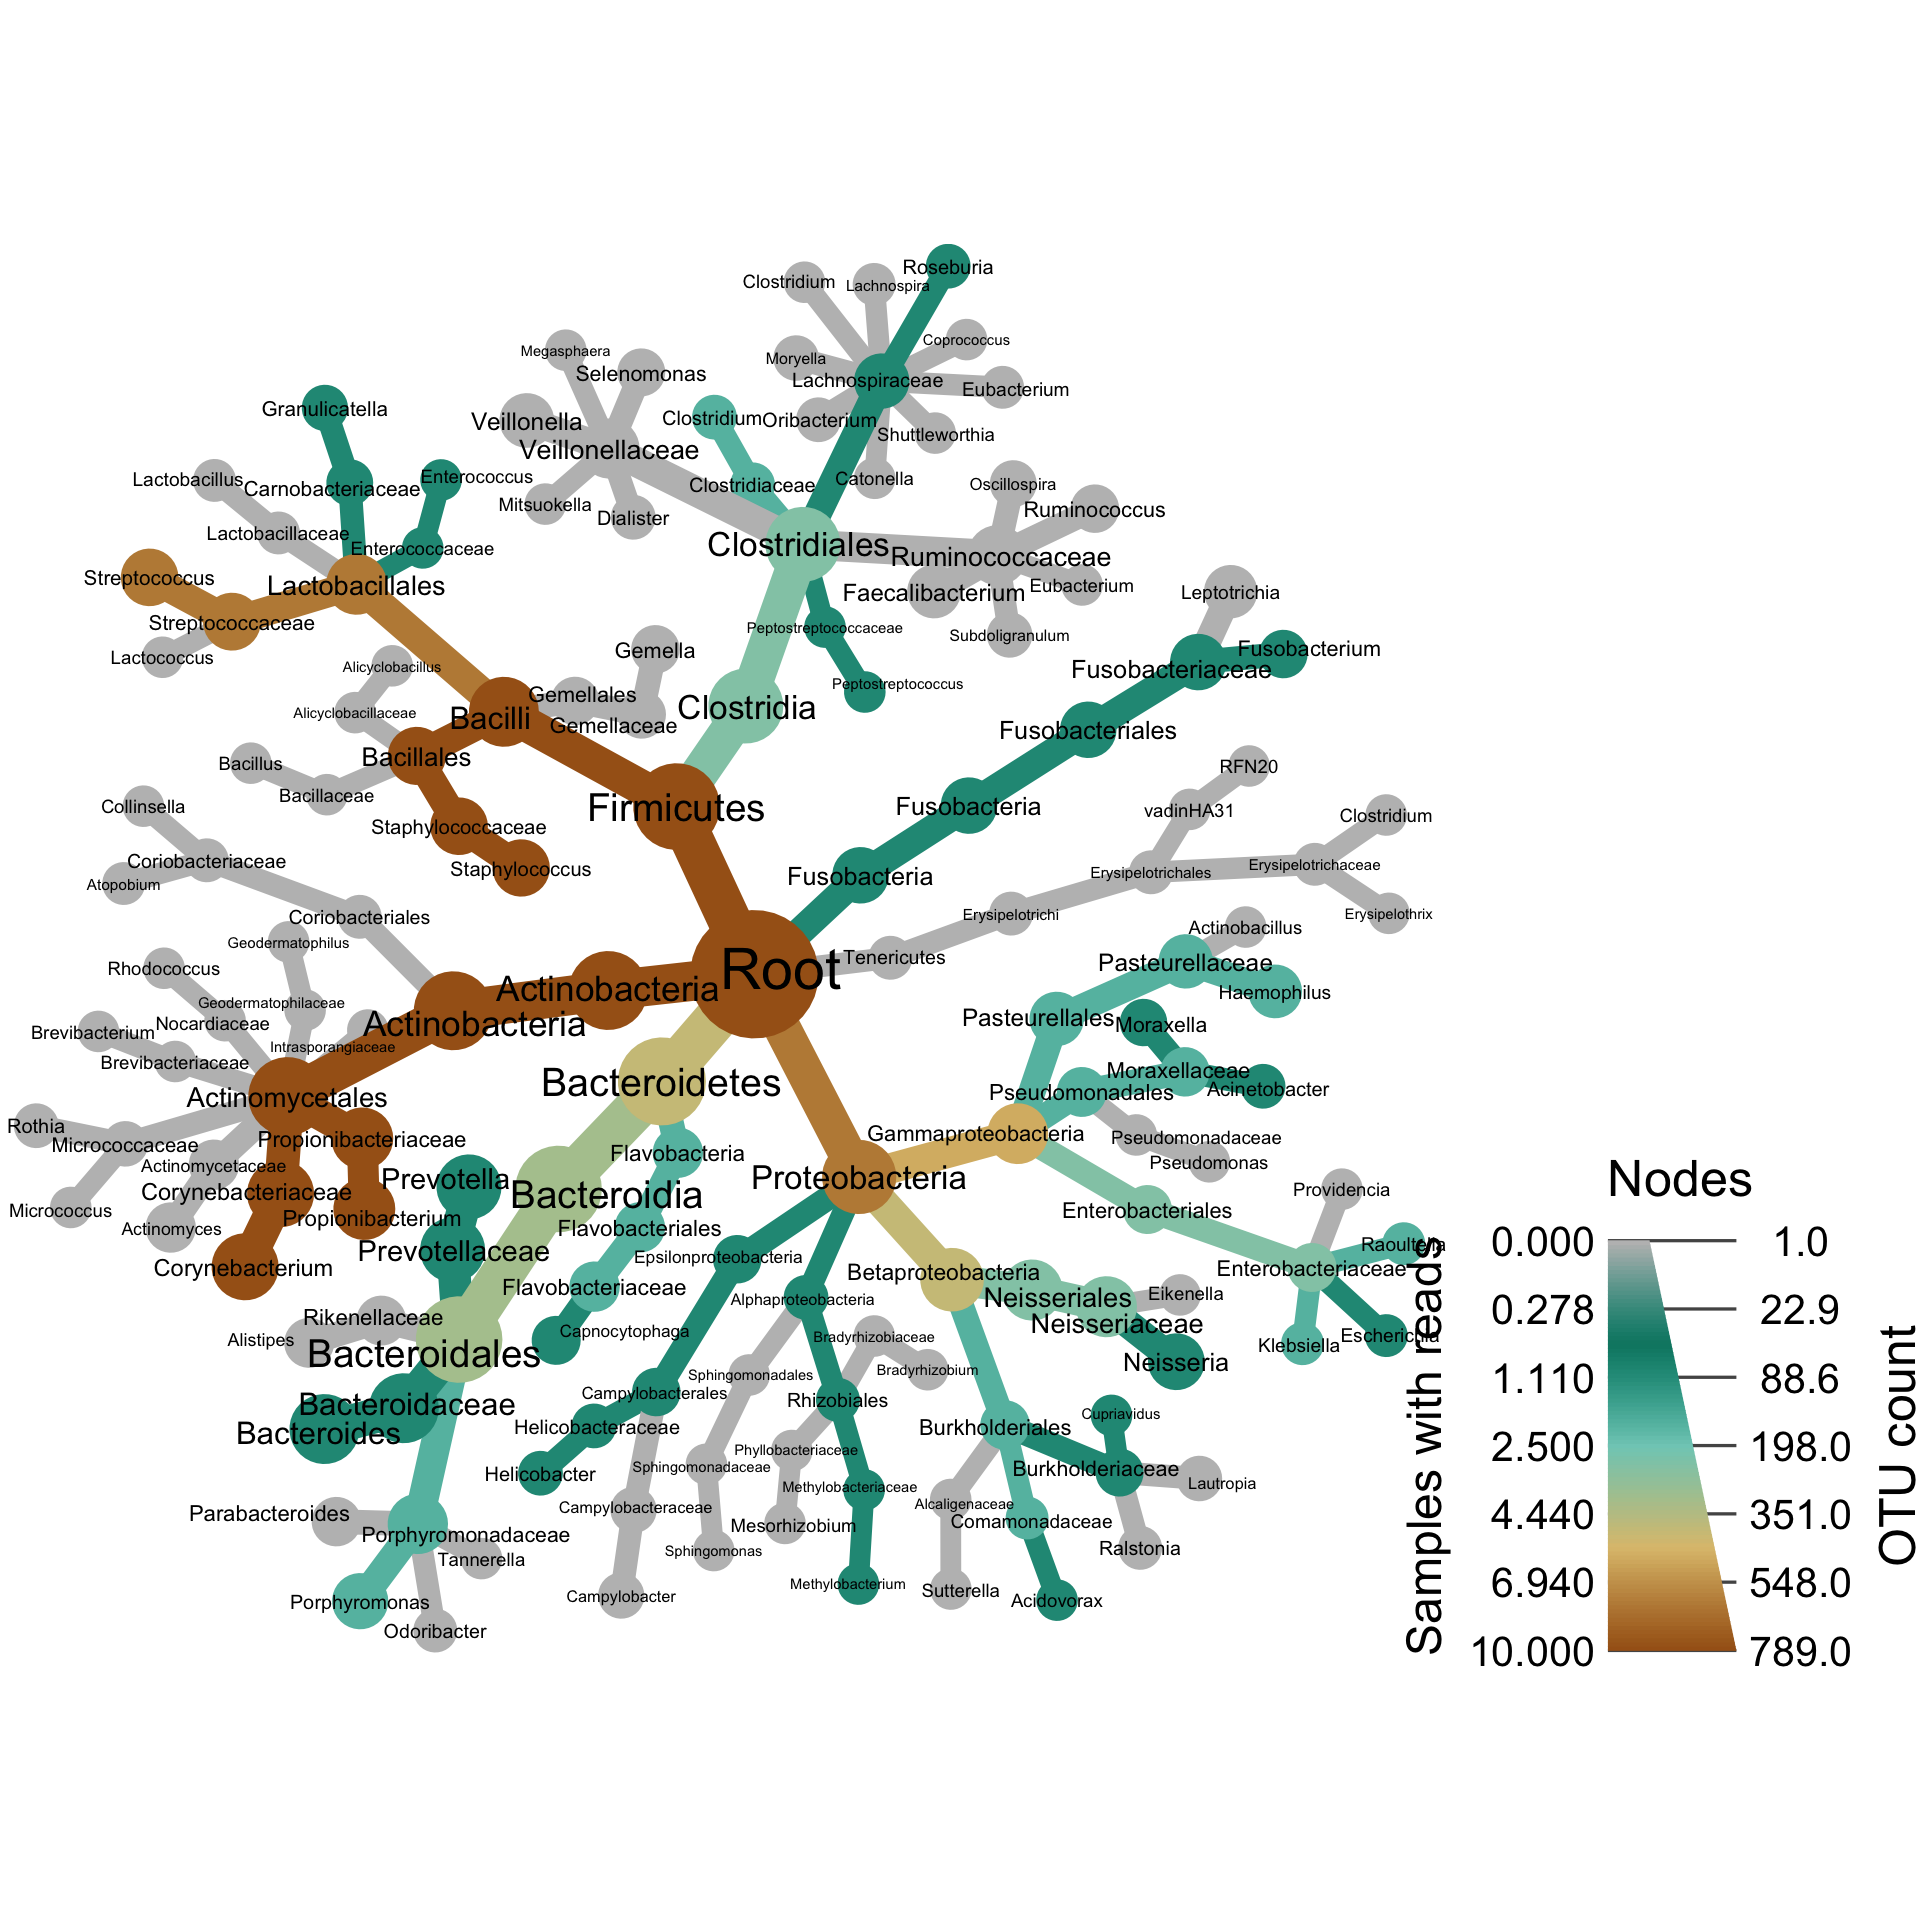
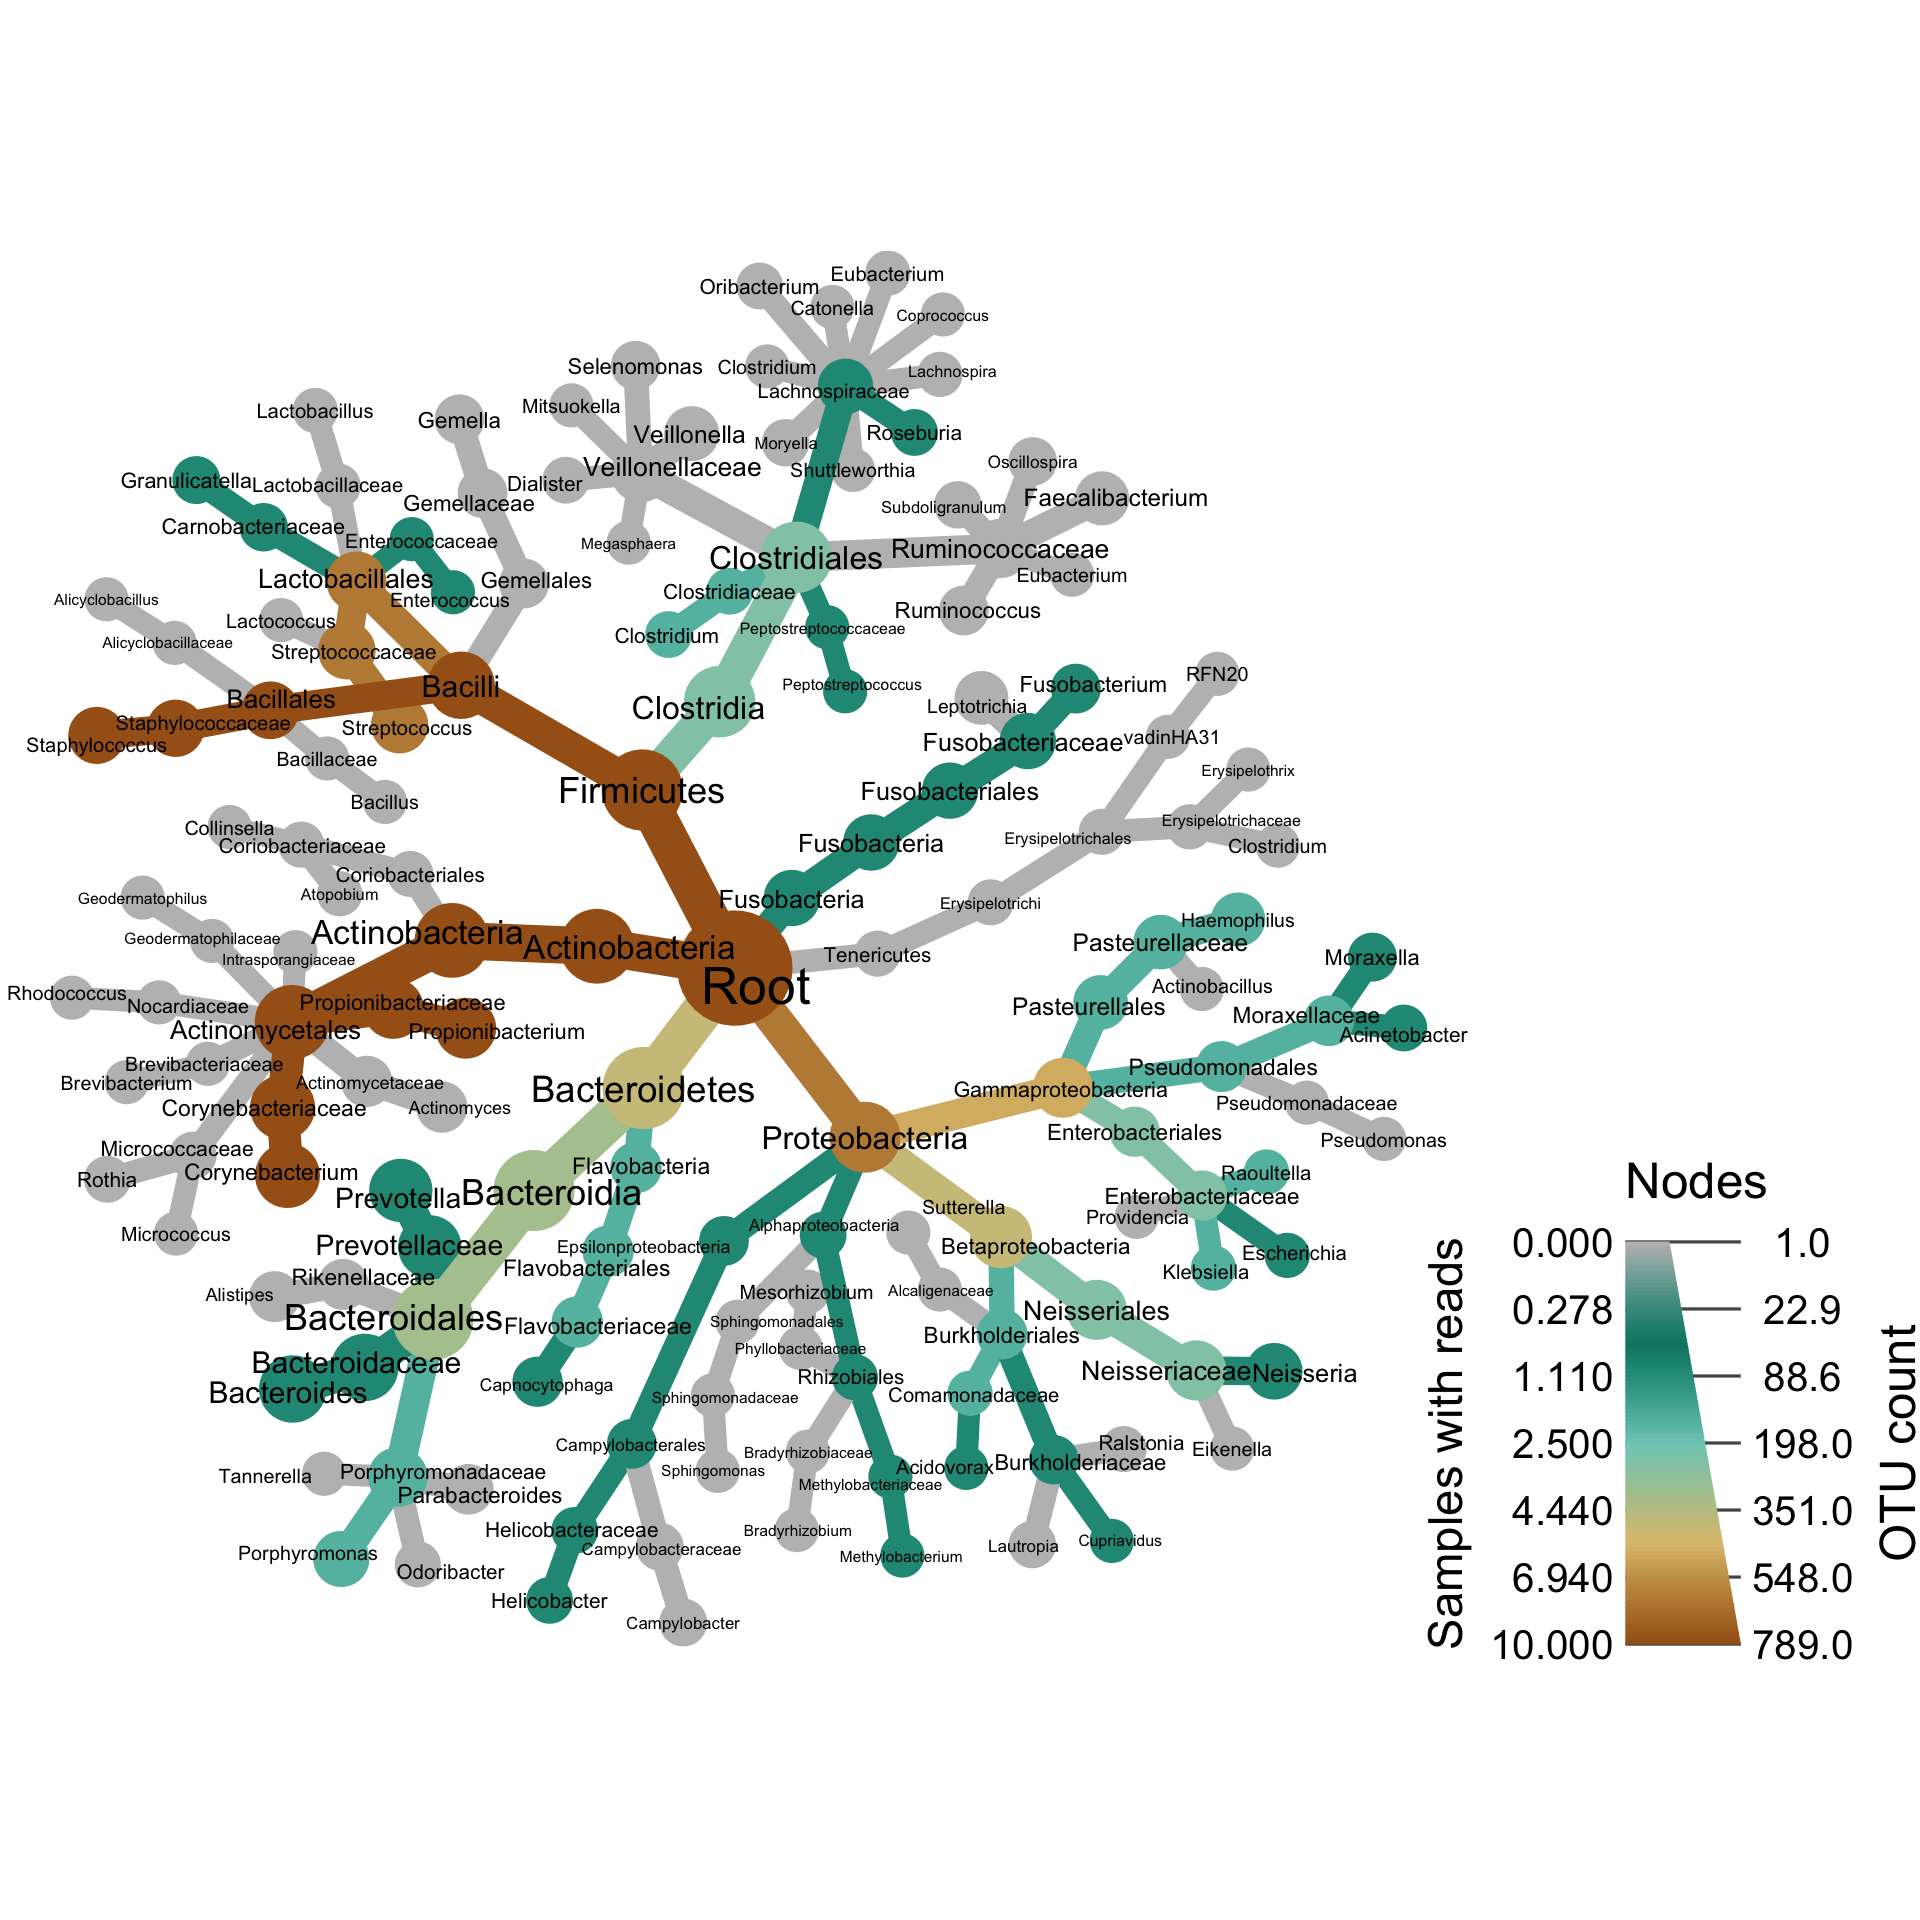
added set.seed() to heat trees

Changed region(s): [[0.0, 0.125, 1.0, 0.875]]

diff --git a/docs/02--quick_example.html b/docs/02--quick_example.html
@@ -590,14 +590,15 @@ $(document).ready(function () {
 <div id="plotting-taxonomic-data" class="section level3">
 <h3>Plotting taxonomic data</h3>
 <p>Now that we have per-taxon information (The <code>tax_abund</code> and <code>tax_occ</code> tables), we can plot the information using <strong>heat trees</strong>. Heat trees are what we call taxonomic trees in which the size and color of tree parts correspond to some statistic of interest. The code below plots the number of “Nose” samples that have reads for each taxon as the size of each taxon. It also plots the number of OTUs assigned to each taxon in the overall dataset as color.</p>
-<div class="sourceCode" id="cb22"><pre class="sourceCode r"><code class="sourceCode r"><a class="sourceLine" id="cb22-1" data-line-number="1"><span class="kw">heat_tree</span>(obj, </a>
-<a class="sourceLine" id="cb22-2" data-line-number="2">          <span class="dt">node_label =</span> taxon_names,</a>
-<a class="sourceLine" id="cb22-3" data-line-number="3">          <span class="dt">node_size =</span> n_obs,</a>
-<a class="sourceLine" id="cb22-4" data-line-number="4">          <span class="dt">node_color =</span> Nose, </a>
-<a class="sourceLine" id="cb22-5" data-line-number="5">          <span class="dt">node_size_axis_label =</span> <span class="st">&quot;OTU count&quot;</span>,</a>
-<a class="sourceLine" id="cb22-6" data-line-number="6">          <span class="dt">node_color_axis_label =</span> <span class="st">&quot;Samples with reads&quot;</span>,</a>
-<a class="sourceLine" id="cb22-7" data-line-number="7">          <span class="dt">layout =</span> <span class="st">&quot;davidson-harel&quot;</span>, <span class="co"># The primary layout algorithm</span></a>
-<a class="sourceLine" id="cb22-8" data-line-number="8">          <span class="dt">initial_layout =</span> <span class="st">&quot;reingold-tilford&quot;</span>) <span class="co"># The layout algorithm that initializes node locations</span></a></code></pre></div>
+<div class="sourceCode" id="cb22"><pre class="sourceCode r"><code class="sourceCode r"><a class="sourceLine" id="cb22-1" data-line-number="1"><span class="kw">set.seed</span>(<span class="dv">999</span>)</a>
+<a class="sourceLine" id="cb22-2" data-line-number="2"><span class="kw">heat_tree</span>(obj, </a>
+<a class="sourceLine" id="cb22-3" data-line-number="3">          <span class="dt">node_label =</span> taxon_names,</a>
+<a class="sourceLine" id="cb22-4" data-line-number="4">          <span class="dt">node_size =</span> n_obs,</a>
+<a class="sourceLine" id="cb22-5" data-line-number="5">          <span class="dt">node_color =</span> Nose, </a>
+<a class="sourceLine" id="cb22-6" data-line-number="6">          <span class="dt">node_size_axis_label =</span> <span class="st">&quot;OTU count&quot;</span>,</a>
+<a class="sourceLine" id="cb22-7" data-line-number="7">          <span class="dt">node_color_axis_label =</span> <span class="st">&quot;Samples with reads&quot;</span>,</a>
+<a class="sourceLine" id="cb22-8" data-line-number="8">          <span class="dt">layout =</span> <span class="st">&quot;davidson-harel&quot;</span>, <span class="co"># The primary layout algorithm</span></a>
+<a class="sourceLine" id="cb22-9" data-line-number="9">          <span class="dt">initial_layout =</span> <span class="st">&quot;reingold-tilford&quot;</span>) <span class="co"># The layout algorithm that initializes node locations</span></a></code></pre></div>
 <p><img src="02--quick_example_files/figure-html/unnamed-chunk-15-1.png" width="960" style="display: block; margin: auto;" /></p>
 <p>Note how we did not have to specify the full path to the variable “Nose”, but just its name. This is a shorthand for convenience. We could have made the exact same plot using this command:</p>
 <div class="sourceCode" id="cb23"><pre class="sourceCode r"><code class="sourceCode r"><a class="sourceLine" id="cb23-1" data-line-number="1"><span class="kw">heat_tree</span>(obj, </a>
@@ -715,16 +716,17 @@ $(document).ready(function () {
 ## # ... with 145 more rows
 </span></code></pre>
 <p>We can use this information to create what we call a <strong>differential heat tree</strong>, which indicates which taxa are more abundant in each treatment:</p>
-<div class="sourceCode" id="cb38"><pre class="sourceCode r"><code class="sourceCode r"><a class="sourceLine" id="cb38-1" data-line-number="1"><span class="kw">heat_tree</span>(obj, </a>
-<a class="sourceLine" id="cb38-2" data-line-number="2">          <span class="dt">node_label =</span> taxon_names,</a>
-<a class="sourceLine" id="cb38-3" data-line-number="3">          <span class="dt">node_size =</span> n_obs, <span class="co"># n_obs is a function that calculates, in this case, the number of OTUs per taxon</span></a>
-<a class="sourceLine" id="cb38-4" data-line-number="4">          <span class="dt">node_color =</span> log2_median_ratio, <span class="co"># A column from `obj$data$diff_table`</span></a>
-<a class="sourceLine" id="cb38-5" data-line-number="5">          <span class="dt">node_color_interval =</span> <span class="kw">c</span>(<span class="op">-</span><span class="dv">2</span>, <span class="dv">2</span>), <span class="co"># The range of `log2_median_ratio` to display</span></a>
-<a class="sourceLine" id="cb38-6" data-line-number="6">          <span class="dt">node_color_range =</span> <span class="kw">c</span>(<span class="st">&quot;cyan&quot;</span>, <span class="st">&quot;gray&quot;</span>, <span class="st">&quot;tan&quot;</span>), <span class="co"># The color palette used</span></a>
-<a class="sourceLine" id="cb38-7" data-line-number="7">          <span class="dt">node_size_axis_label =</span> <span class="st">&quot;OTU count&quot;</span>,</a>
-<a class="sourceLine" id="cb38-8" data-line-number="8">          <span class="dt">node_color_axis_label =</span> <span class="st">&quot;Log 2 ratio of median proportions&quot;</span>,</a>
-<a class="sourceLine" id="cb38-9" data-line-number="9">          <span class="dt">layout =</span> <span class="st">&quot;davidson-harel&quot;</span>, <span class="co"># The primary layout algorithm</span></a>
-<a class="sourceLine" id="cb38-10" data-line-number="10">          <span class="dt">initial_layout =</span> <span class="st">&quot;reingold-tilford&quot;</span>) <span class="co"># The layout algorithm that initializes node locations</span></a></code></pre></div>
+<div class="sourceCode" id="cb38"><pre class="sourceCode r"><code class="sourceCode r"><a class="sourceLine" id="cb38-1" data-line-number="1"><span class="kw">set.seed</span>(<span class="dv">999</span>)</a>
+<a class="sourceLine" id="cb38-2" data-line-number="2"><span class="kw">heat_tree</span>(obj, </a>
+<a class="sourceLine" id="cb38-3" data-line-number="3">          <span class="dt">node_label =</span> taxon_names,</a>
+<a class="sourceLine" id="cb38-4" data-line-number="4">          <span class="dt">node_size =</span> n_obs, <span class="co"># n_obs is a function that calculates, in this case, the number of OTUs per taxon</span></a>
+<a class="sourceLine" id="cb38-5" data-line-number="5">          <span class="dt">node_color =</span> log2_median_ratio, <span class="co"># A column from `obj$data$diff_table`</span></a>
+<a class="sourceLine" id="cb38-6" data-line-number="6">          <span class="dt">node_color_interval =</span> <span class="kw">c</span>(<span class="op">-</span><span class="dv">2</span>, <span class="dv">2</span>), <span class="co"># The range of `log2_median_ratio` to display</span></a>
+<a class="sourceLine" id="cb38-7" data-line-number="7">          <span class="dt">node_color_range =</span> <span class="kw">c</span>(<span class="st">&quot;cyan&quot;</span>, <span class="st">&quot;gray&quot;</span>, <span class="st">&quot;tan&quot;</span>), <span class="co"># The color palette used</span></a>
+<a class="sourceLine" id="cb38-8" data-line-number="8">          <span class="dt">node_size_axis_label =</span> <span class="st">&quot;OTU count&quot;</span>,</a>
+<a class="sourceLine" id="cb38-9" data-line-number="9">          <span class="dt">node_color_axis_label =</span> <span class="st">&quot;Log 2 ratio of median proportions&quot;</span>,</a>
+<a class="sourceLine" id="cb38-10" data-line-number="10">          <span class="dt">layout =</span> <span class="st">&quot;davidson-harel&quot;</span>, <span class="co"># The primary layout algorithm</span></a>
+<a class="sourceLine" id="cb38-11" data-line-number="11">          <span class="dt">initial_layout =</span> <span class="st">&quot;reingold-tilford&quot;</span>) <span class="co"># The layout algorithm that initializes node locations</span></a></code></pre></div>
 <p><img src="02--quick_example_files/figure-html/unnamed-chunk-24-1.png" width="960" style="display: block; margin: auto;" /></p>
 <p>In this case, taxa colored tan are more abundant in women and those colored blue are more abundant in men. Note that we have not taken into account statistics significance when showing this, so lets do that. First, we need to correct for multiple comparisons:</p>
 <div class="sourceCode" id="cb39"><pre class="sourceCode r"><code class="sourceCode r"><a class="sourceLine" id="cb39-1" data-line-number="1">obj<span class="op">$</span>data<span class="op">$</span>diff_table<span class="op">$</span>wilcox_p_value &lt;-<span class="st"> </span><span class="kw">p.adjust</span>(obj<span class="op">$</span>data<span class="op">$</span>diff_table<span class="op">$</span>wilcox_p_value,</a>
